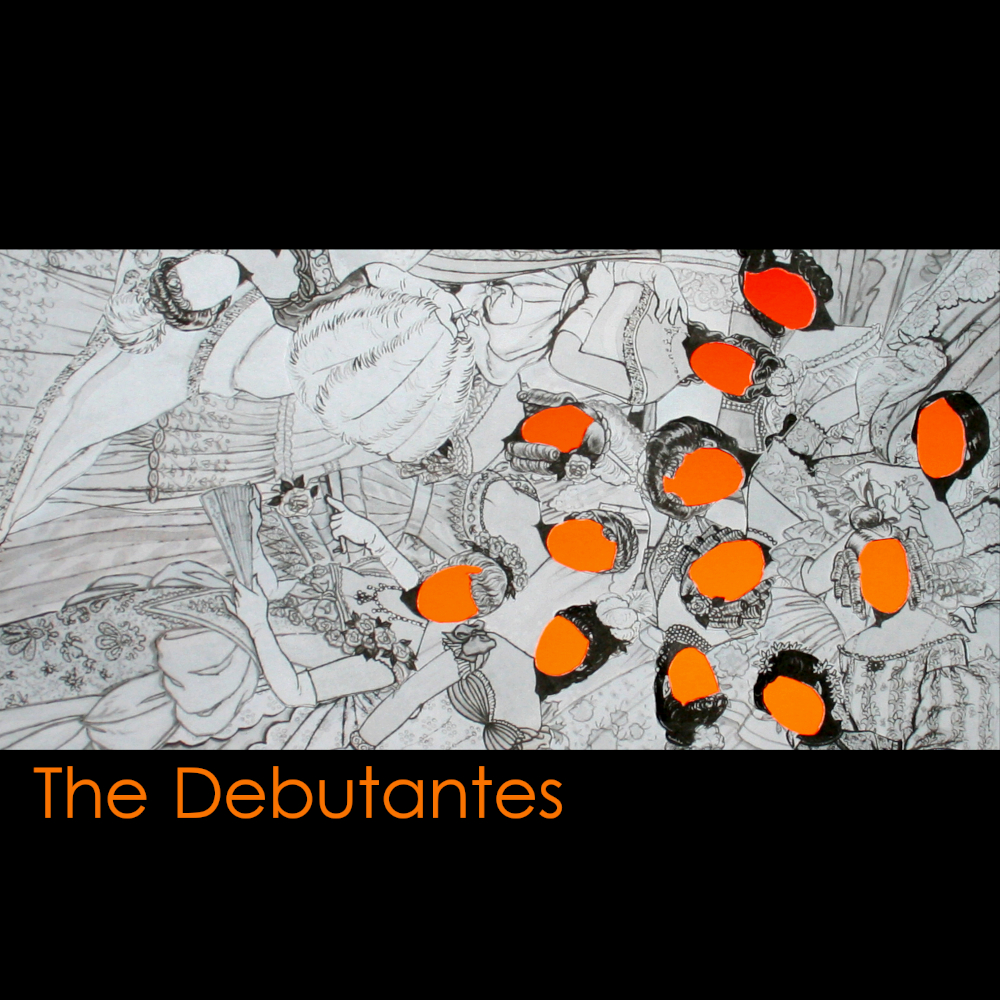
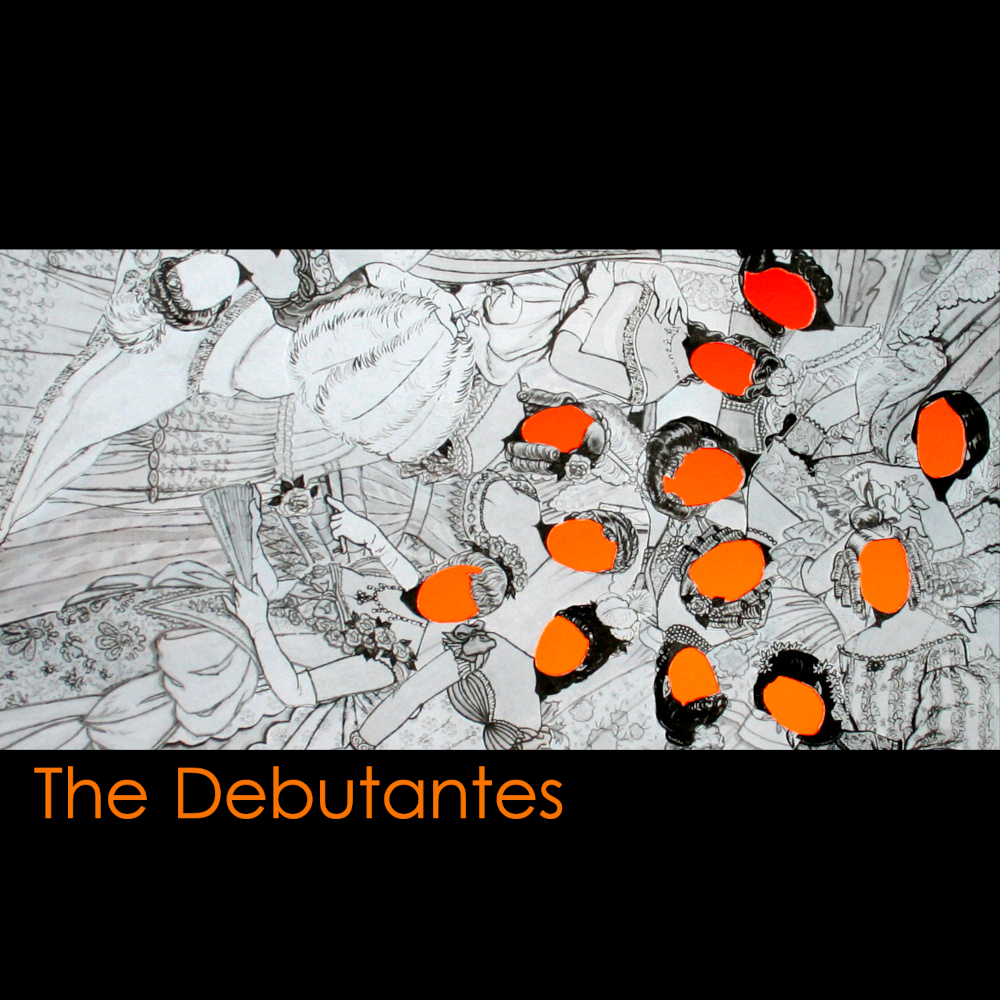
Compress images

diff --git a/index.html b/index.html
@@ -160,7 +160,7 @@
     </div>
 
     <div class="player hidden-player">
-      <iframe
+      <!-- <iframe
         tabindex="-1"
         id="player-the-debutantes"
         src=""
@@ -183,9 +183,9 @@
         id="player-cotillion"
         src=""
         class="hidden-iframe iframe"
-      ></iframe>
+      ></iframe> -->
 
-      <!-- <iframe
+      <iframe
         tabindex="-1"
         title="Player for album The Debutantes"
         class=""
@@ -229,7 +229,7 @@
         ><a href="http://cotillion.bandcamp.com/album/cotillion-2"
           >Cotillion by Cotillion</a
         ></iframe
-      > -->
+      >
     </div>
   </body>
 </html>
